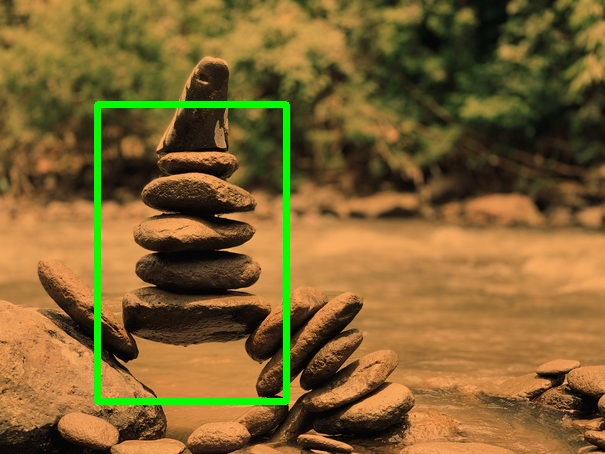
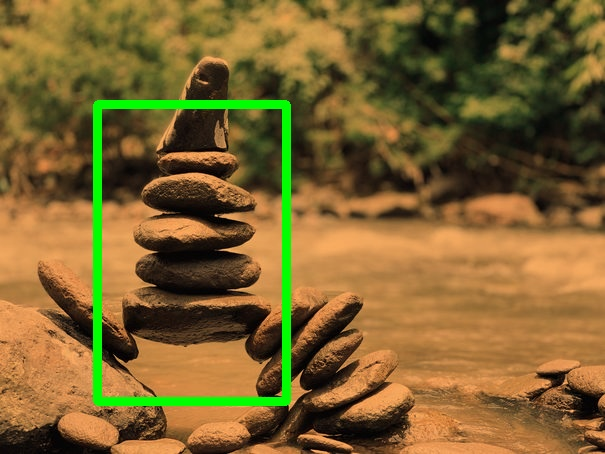
improved README

Changed region(s): [[0.1488, 0.2159, 0.5058, 0.8943]]

diff --git a/src/discolight/doc.py b/src/discolight/doc.py
@@ -175,7 +175,7 @@ def make_augmentation_doc_object(augmentation, sample_image_path,
     save_image(
         os.path.join(output_dir,
                      "{}-input-bboxes.jpg".format(augmentation.__name__)),
-        image, annotations, (0, 255, 0), 5)
+        image, annotations, (0, 255, 0), 8)
 
     bboxes = annotations_to_numpy_array(annotations)
 
@@ -190,7 +190,7 @@ def make_augmentation_doc_object(augmentation, sample_image_path,
     save_image(
         os.path.join(output_dir,
                      "{}-bboxes.jpg".format(augmentation.__name__)),
-        augmented_image, augmented_annotations, (0, 255, 0), 5)
+        augmented_image, augmented_annotations, (0, 255, 0), 8)
 
     doc_object["sample_image"] = "{}-input.jpg".format(augmentation.__name__)
     doc_object["sample_image_bboxes"] = "{}-input-bboxes.jpg".format(
